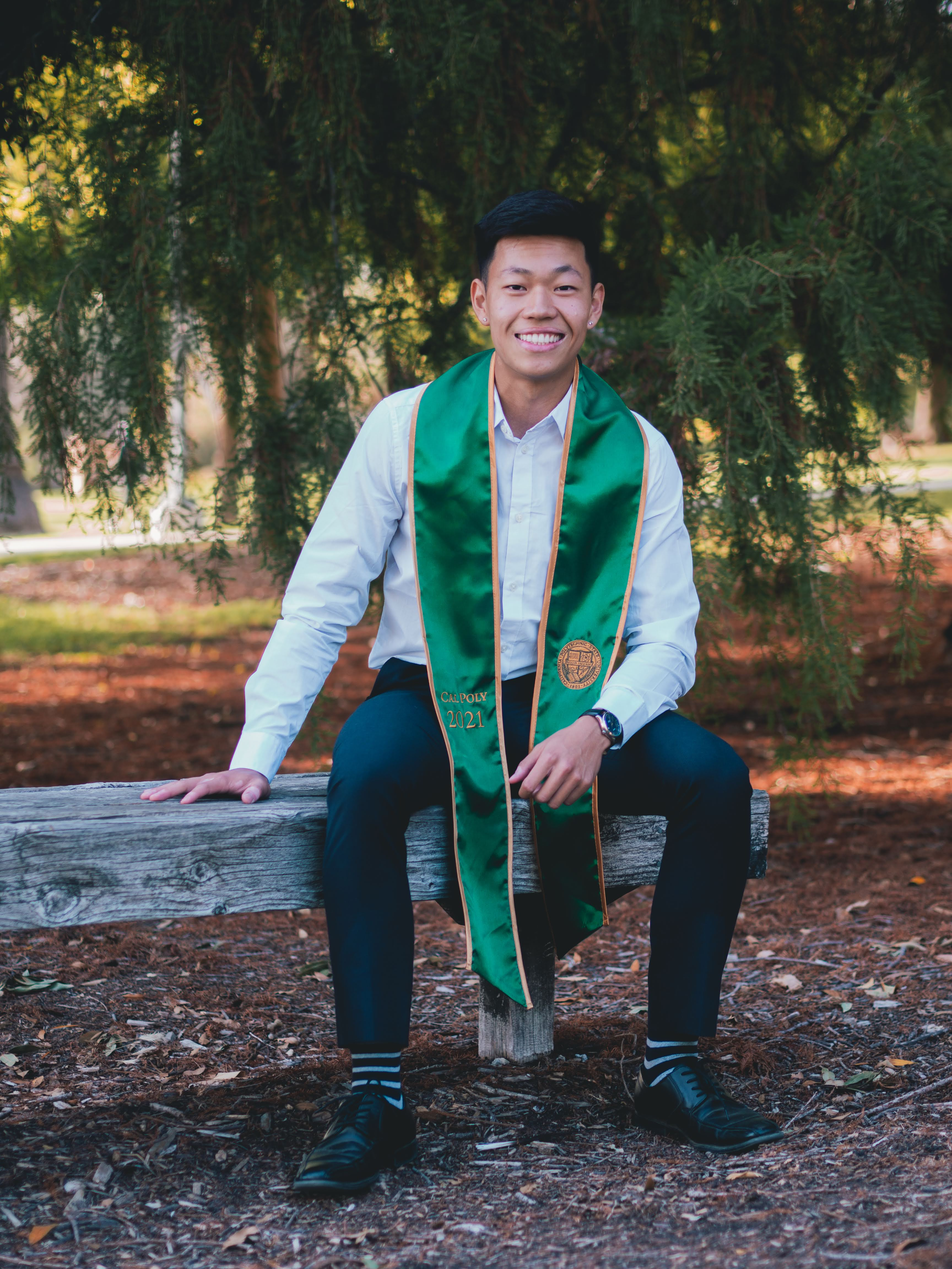
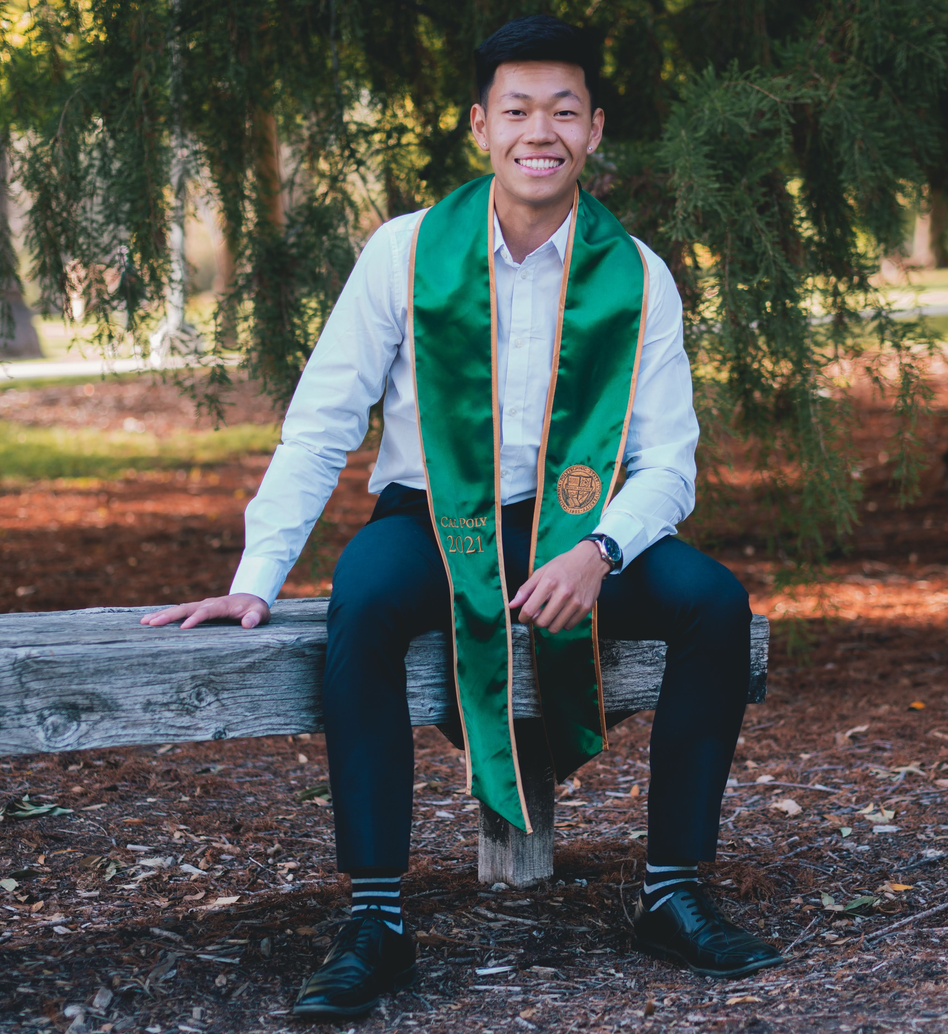
updated profile image

diff --git a/src/components/AboutMe/aboutme.css b/src/components/AboutMe/aboutme.css
@@ -16,6 +16,6 @@
 
 .headshot{
     width: 350px;
-    height: 450px;
+    height: 375px;
     margin-right: 50px;
 }
